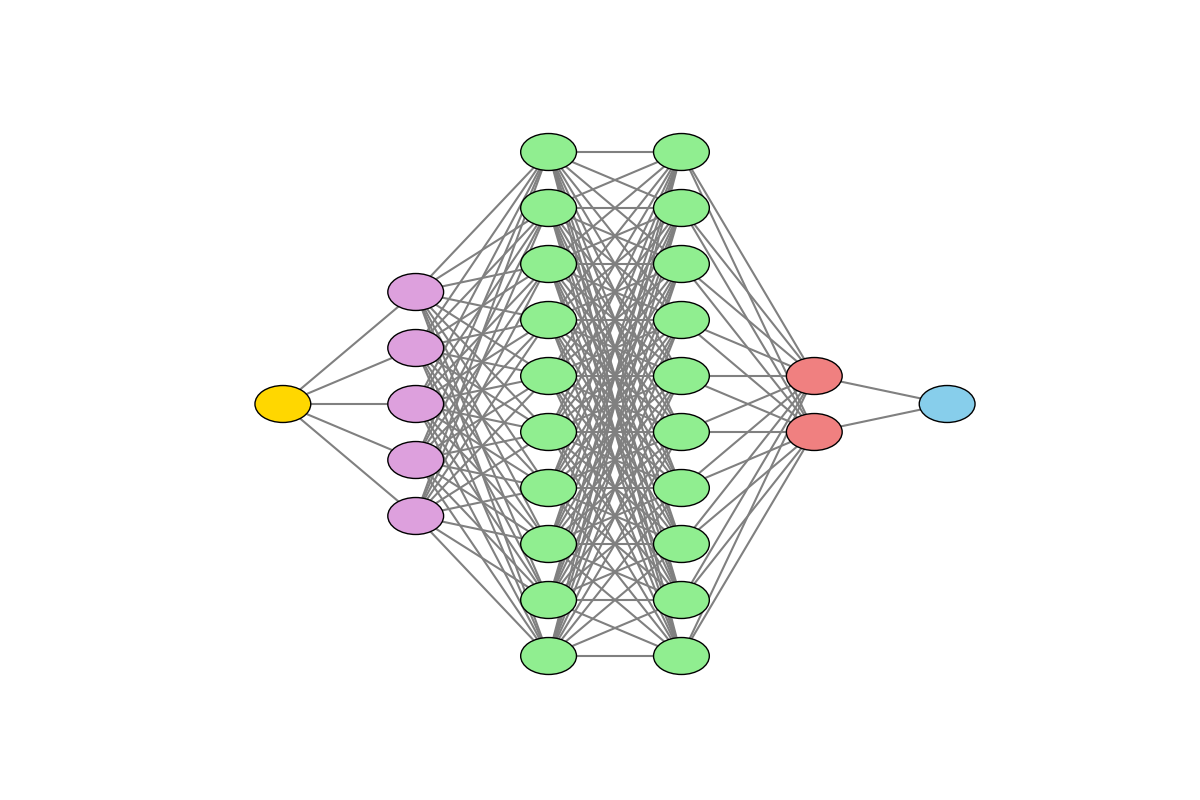
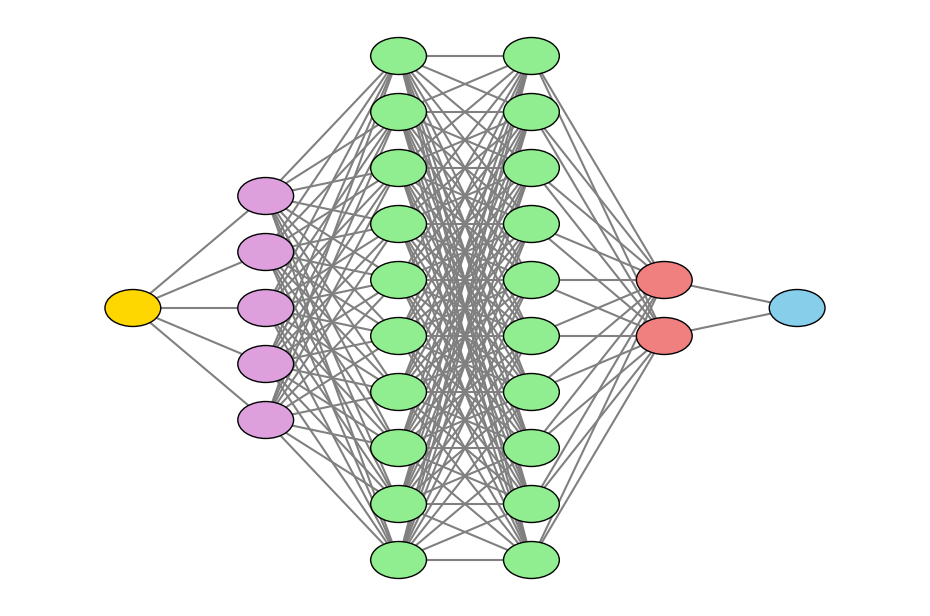
small changes

Changed region(s): [[0.0935, 0.0617, 0.9043, 0.9562]]

diff --git a/index.html b/index.html
@@ -116,7 +116,7 @@
           <!-- <div class="col-6">
             <img src="images/pca.png" class="img-fluid mb-2" alt="PCA">
           </div> -->
-          <div class="col-6">
+          <div class="col-6" style="width: 100%">
             <img src="images/neural_network.png" class="img-fluid mb-2" alt="Neural Network">
           </div>
           <!-- <div class="col-6">
@@ -134,7 +134,7 @@
           <div class="card-body">
             <h5 class="card-title">Data Visualizations and Statistics</h5>
             <p class="card-text">Intuitive visualizations to help understand your data. The right statistics to answer your questions.</p>
-            <div id="plotlyScatter" class="card-img-top" style="height: 400px;"></div>
+            <div id="plotlyScatter" class="card-img-top" style="width: 100%"></div>
           </div>
         </div>
       </div>
@@ -148,16 +148,17 @@
             <h5 class="card-title">Business Intelligence</h5>
             <p class="card-text">Analyzing sales, customer insights, and operational performance through real-time data visualization, statistics, and reporting.</p>
             
-            <div id="plotlyDashboard" class="mb-3" style="height: 400px; width:100%"></div>
+            <div id="plotlyDashboard" class="mb-3" style="width:100%"></div>
 
             <!-- Progress Bars (example) -->
             <p>Sales Target</p>
             <div class="progress" role="progressbar" aria-label="Animated striped example" aria-valuenow="80" aria-valuemin="0" aria-valuemax="100">
                 <div class="progress-bar progress-bar-striped progress-bar-animated bg-success" style="width: 80%">80%</div>
             </div>
+            
 
             <!-- KPI Row (for example purposes) -->
-            <div class="row text-center mb-3">
+            <!-- <div class="row text-center mb-3">
             <div class="col-4">
                 <h6>Total Sales</h6>
                 <p class="kpi-value">$1.2M</p>
@@ -169,11 +170,8 @@
             <div class="col-4">
                 <h6>Revenue</h6>
                 <p class="kpi-value">$450K</p>
-            </div>
-            </div>
-    
-            
-            
+            </div> -->
+        </div>
             
 
         </div>
@@ -235,10 +233,11 @@
             xaxis: { title: 'X-axis' },
             yaxis: { title: 'Y-axis' },
             zaxis: { title: 'Z-axis' }
-          }
+          },
+          responsive: true
         };
     
-        Plotly.newPlot('plotlyScatter', data, layout, { responsive: true });
+        Plotly.newPlot('plotlyScatter', data, layout);
       </script>
 
 
@@ -288,7 +287,7 @@
 
     // Layout with statistical annotations
     var layout = {
-        title: 'Quarterly Sales with Trendline',
+        title: 'Quarterly Sales',
         annotations: [
         {
             xref: 'paper',
@@ -306,11 +305,9 @@
         }
         ],
         showlegend: false,
-        margin: { t: 70, l: 50, r: 30, b: 30 },
-        height: 350,
-        width: 370
+        responsive: true,
+        margin: { t: 70, l: 30, r: 30, b: 20 }
     };
-    var config = { responsive: true };
     Plotly.newPlot('plotlyDashboard', data, layout);
     </script>
   

diff --git a/images/hirearchichal.py b/images/hirearchichal.py
@@ -8,14 +8,14 @@ from sklearn.datasets import make_blobs
 
 # Generate synthetic clusterable data using make_blobs
 # 4 clusters, 30 samples, 10 features
-data, cluster_labels = make_blobs(n_samples=30, n_features=10, centers=4, cluster_std=1.5, random_state=42)
+data, cluster_labels = make_blobs(n_samples=20, n_features=10, centers=4, cluster_std=1.5, random_state=42)
 
 # Calculate the distance matrix and apply hierarchical clustering
 row_linkage = linkage(pdist(data, metric='euclidean'), method='average')
 col_linkage = linkage(pdist(data.T, metric='euclidean'), method='average')
 
 # Set up the matplotlib figure with gridspec
-fig = plt.figure(figsize=(10, 10))
+fig = plt.figure(figsize=(10, 6))
 gs = gridspec.GridSpec(3, 3, width_ratios=[0.2, 1, 0.05], height_ratios=[0.2, 1, 0.05])
 
 # Create axes for the row and column dendrograms, the heatmap, and the color bar

diff --git a/images/neural_network.py b/images/neural_network.py
@@ -63,4 +63,4 @@ layer_colors = ['gold', 'plum', 'lightgreen', 'lightgreen', 'lightcoral', 'skybl
 
 draw_neural_network(ax, layer_sizes, layer_colors)
 
-plt.savefig('neural_network.png')
+plt.savefig('neural_network.png', bbox_inches='tight', pad_inches = 0)
